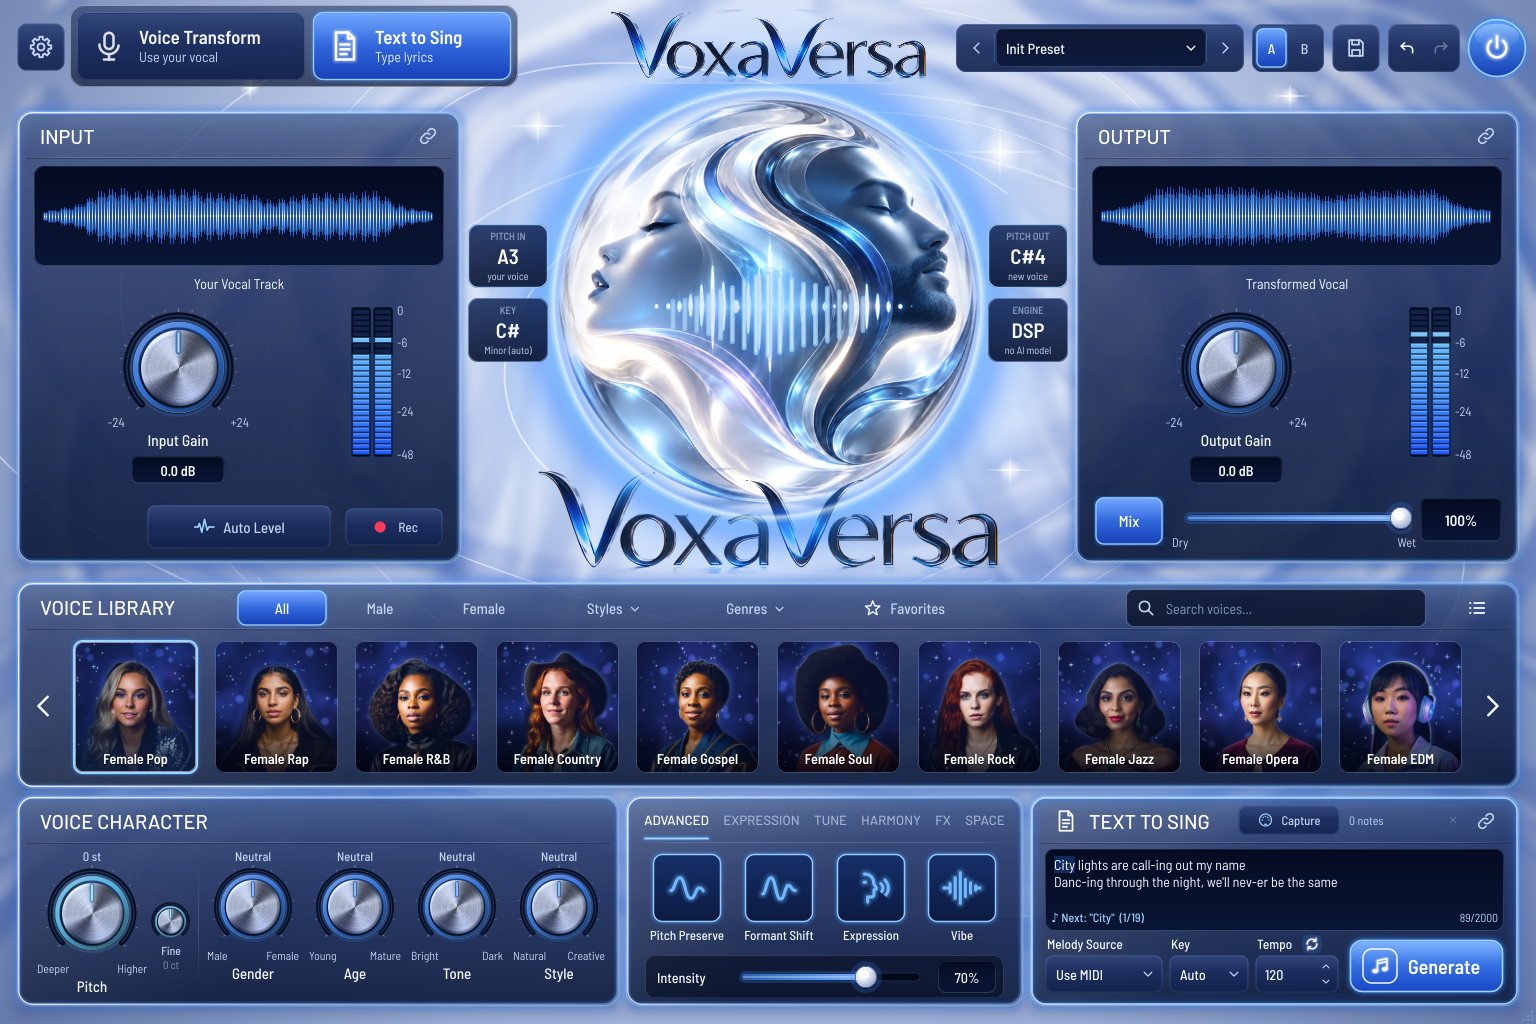
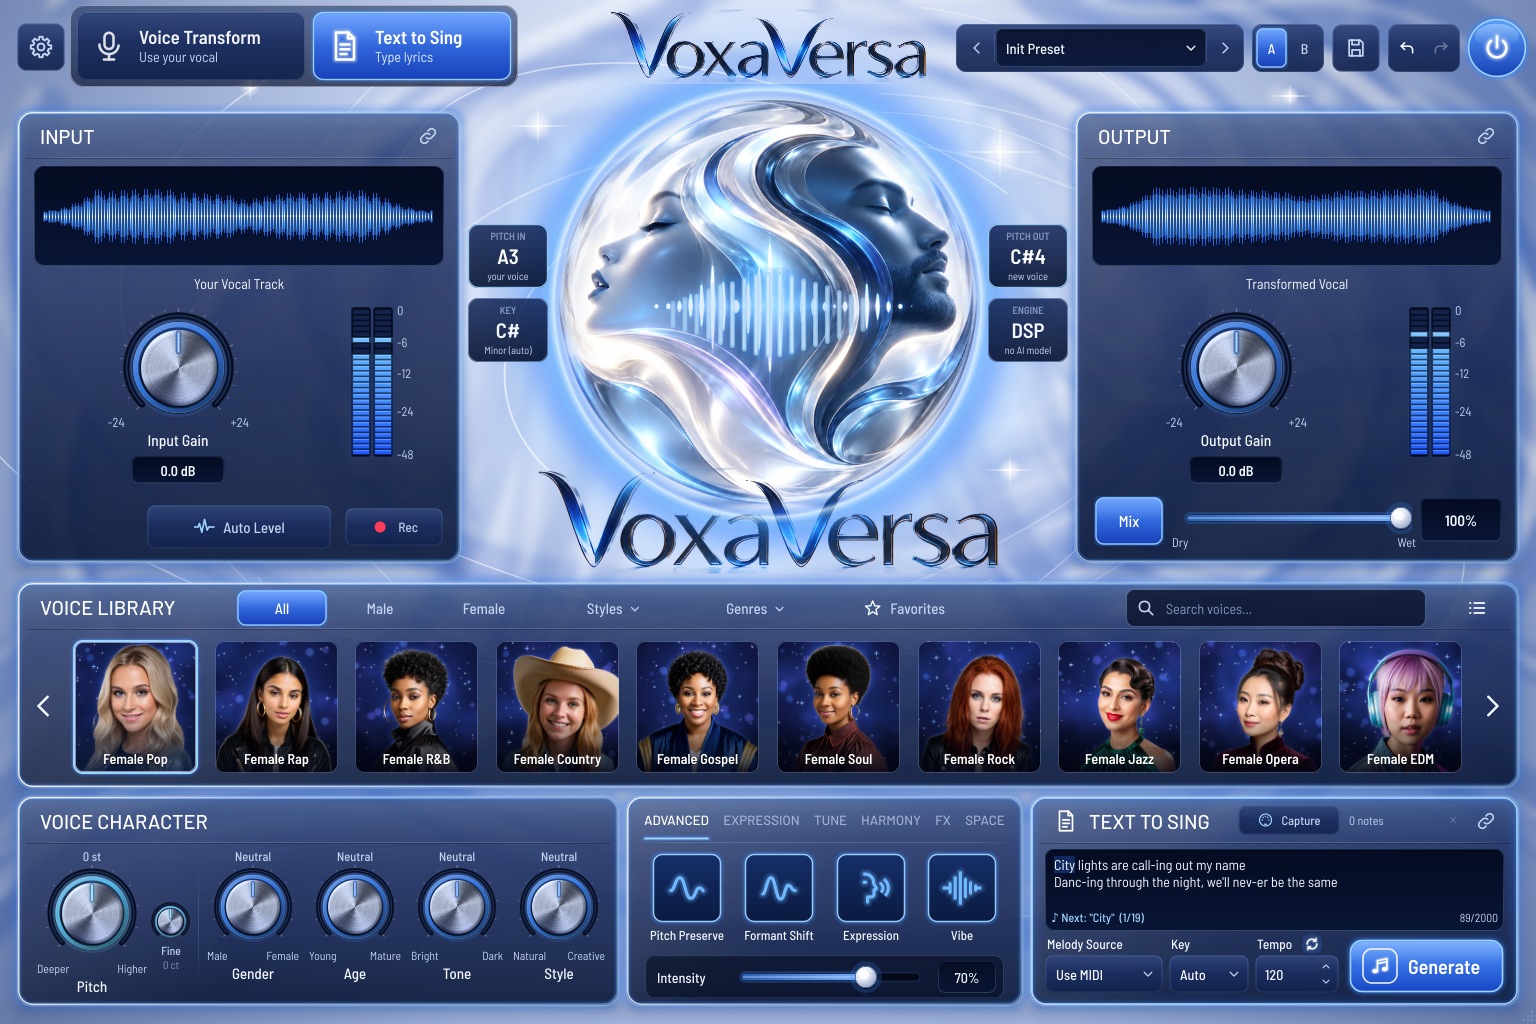
Refresh UI screenshots with the evenly lit portraits; update generation notes
THIRD_PARTY.md: portraits are now generated on a mid-grey backdrop with
soft key + fill light and cut out with IS-Net only.

Claude-Session: https://claude.ai/code/session_013kPDg3TJwUS8AedohMTTT8

diff --git a/docs/THIRD_PARTY.md b/docs/THIRD_PARTY.md
@@ -53,13 +53,13 @@ image was reviewed and anything resembling a recognisable person was rejected.
 - **VAE:** [`stabilityai/sd-vae-ft-mse`](https://huggingface.co/stabilityai/sd-vae-ft-mse),
   revision `31f26fdeee1355a5c34592e401dd41e45d25a493`, MIT licence.
 - **Generation:** offline on CPU with Hugging Face `diffusers`; image-to-image from a neutral
-  head-and-shoulders silhouette (so every portrait has the same framing), DPM++ 2M Karras sampler,
-  CFG 5.5. The per-voice prompts (genre styling, wardrobe, age, ethnicity) and seeds are kept with
-  the generation scripts, not in the product.
+  head-and-shoulders silhouette on a plain mid-grey studio backdrop (so every portrait has the same
+  framing), soft key + fill lighting, DPM++ 2M Karras sampler, CFG 5.5. The per-voice prompts
+  (genre styling, wardrobe, age, ethnicity) and seeds are kept with the generation scripts, not in
+  the product.
 - **Post-processing tools (not shipped):** the YuNet face detector from the OpenCV model zoo
   (MIT) to frame each face consistently, and the IS-Net `isnet-general-use` segmentation model
-  (Apache-2.0) together with the U^2-Net `u2net_human_seg` human-segmentation model (Apache-2.0)
-  to cut the person out and place them on the shared navy/indigo starry backdrop with a blue rim
-  light. Images are exported as 256 x 280 JPEGs.
+  (Apache-2.0) to cut the person out of the grey backdrop and place them on the shared
+  navy/indigo starry backdrop with a thin blue rim light. Images are exported as 256 x 280 JPEGs.
 
 The model weights are not redistributed with VoxaVersa; only the generated images are.
